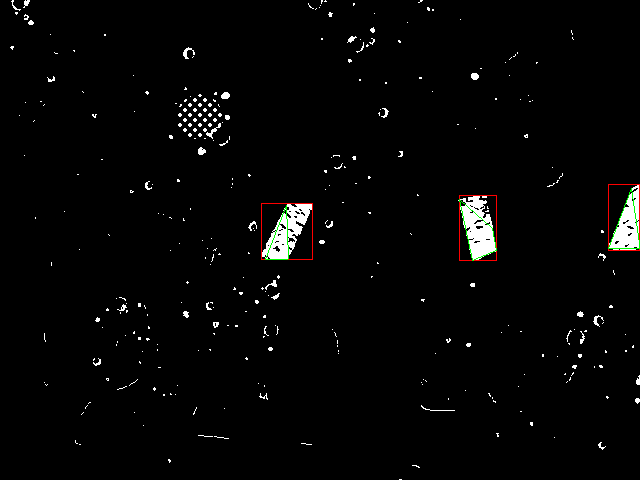
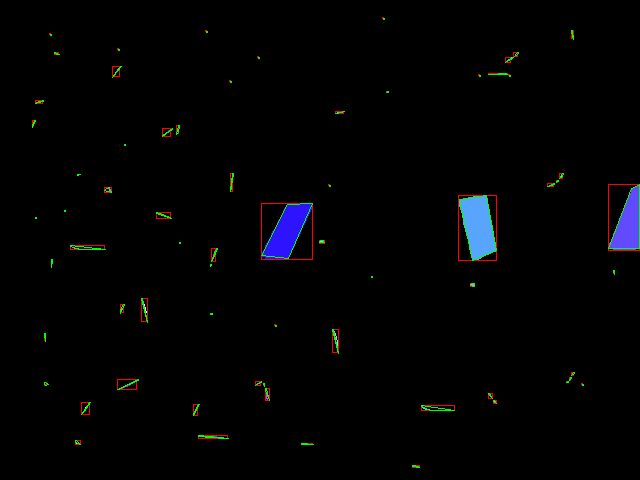
BlobProcessor V2 Script Working!

diff --git a/Scripting/BlobProcessor.ts b/Scripting/BlobProcessor.ts
@@ -19,12 +19,13 @@ interface BlobData {
     valid: boolean
 }
 
-const MIN_AREA = 1000;
+const MIN_AREA = 0;
 const MAX_BLOBS = 1000;
 const IMAGE_WIDTH = 640;
 const IMAGE_HEIGHT = 480;
 
-let frameBuffer: boolean[][] = Array.from(Array(IMAGE_WIDTH), () => Array(IMAGE_HEIGHT).fill(0))
+let frameBuffer: boolean[][] = Array.from(Array(IMAGE_WIDTH), () => Array(IMAGE_HEIGHT).fill(0));
+let testBlobBuffer: number[][] = Array.from(Array(IMAGE_WIDTH), () => Array(IMAGE_HEIGHT).fill(0))
 let blobIDBuffer: number[] = Array(IMAGE_WIDTH * 2).fill(MAX_BLOBS); //stores last 2 lines of blob IDs
 let blobIDBufferHalf: boolean = false; //which section of the blobIDBuffer we are on [639:0] or [1279:640]
 let blobs: BlobData[] = Array(MAX_BLOBS).fill({
@@ -40,7 +41,7 @@ let blobs: BlobData[] = Array(MAX_BLOBS).fill({
 });
 let blobIndex = 0;
 
-fs.createReadStream('images/2019_Noise2.png')
+fs.createReadStream('images/2019_Noise.png')
     .pipe(new png())
     .on('parsed', function () {
         //Process all Pixels
@@ -53,12 +54,13 @@ fs.createReadStream('images/2019_Noise2.png')
 
                 frameBuffer[x][y] = threshold;
 
+                let blobID = MAX_BLOBS;
                 if (threshold) {
-                    processPixel({ x, y });
+                    blobID = processPixel({ x, y });
                 }
-                else {
-                    blobIDBuffer[x + (blobIDBufferHalf?IMAGE_WIDTH:0)] = MAX_BLOBS;
-                }
+                
+                blobIDBuffer[x + (blobIDBufferHalf?IMAGE_WIDTH:0)] = blobID;
+                testBlobBuffer[x][y] = blobID;
             }
 
             //swap blobIDBufferHalf
@@ -68,6 +70,19 @@ fs.createReadStream('images/2019_Noise2.png')
         console.log("blob count: ", blobIndex - 1, maxCount);
 
         //Draw Blobs
+        for (let y = 0; y < IMAGE_HEIGHT; y++) {
+            for (let x = 0; x < IMAGE_WIDTH; x++) {
+                if (testBlobBuffer[x][y] !== MAX_BLOBS) {
+                    const idx = (IMAGE_WIDTH * y + x) << 2;
+                    const blobIndex = getBlobID(testBlobBuffer[x][y]);
+                    // const blobIndex = testBlobBuffer[x][y];
+                    //@ts-ignore
+                    this.data[idx] = Math.sin(blobIndex * 50) * 255;
+                    //@ts-ignore
+                    this.data[idx + 1] = Math.sin(blobIndex * 100) * 255;
+                }
+            }
+        }
         for (let i = 0; i < blobs.length; i++) {
             const area = (blobs[i]?.boundBottomRight.x - blobs[i]?.boundTopLeft.x) * (blobs[i]?.boundBottomRight.y - blobs[i]?.boundTopLeft.y);
             if (blobs[i]?.valid && area >= MIN_AREA) {
@@ -80,7 +95,7 @@ fs.createReadStream('images/2019_Noise2.png')
                     [255, 0, 0, 255]
                 );
 
-                //@ts-ignore
+                // @ts-ignore
                 this.drawLine(
                     blobs[i].cornerTopLeft.x,
                     blobs[i].cornerTopLeft.y,
@@ -131,16 +146,16 @@ function getBlobID(startID: number, count?: number): number {
 }
 
 //Process Pixel & Return BlobID
-function processPixel(pos: Vector): void {
+function processPixel(pos: Vector): number {
     let blobIDBufferIndexes: number[] = [];
     if (pos.x > 0 && pos.y > 0)
-        blobIDBufferIndexes.push(pos.x-1 + (blobIDBufferHalf?IMAGE_WIDTH:0));
-    if (pos.y > 0)
-        blobIDBufferIndexes.push(pos.x+0 + (blobIDBufferHalf?IMAGE_WIDTH:0));
-    if (pos.x < IMAGE_WIDTH-1 && pos.y > 0)
-        blobIDBufferIndexes.push(pos.x+1 + (blobIDBufferHalf?IMAGE_WIDTH:0));
-    if (pos.x > 0)
         blobIDBufferIndexes.push(pos.x-1 + (blobIDBufferHalf?0:IMAGE_WIDTH));
+    if (pos.y > 0)
+        blobIDBufferIndexes.push(pos.x+0 + (blobIDBufferHalf?0:IMAGE_WIDTH));
+    if (pos.x < IMAGE_WIDTH-1 && pos.y > 0)
+        blobIDBufferIndexes.push(pos.x+1 + (blobIDBufferHalf?0:IMAGE_WIDTH));
+    if (pos.x > 0)
+        blobIDBufferIndexes.push(pos.x-1 + (blobIDBufferHalf?IMAGE_WIDTH:0));
 
     let masterBlobID;
     for (let i = 0; i < blobIDBufferIndexes.length; i++) {
@@ -214,14 +229,14 @@ function processPixel(pos: Vector): void {
             blobs[masterBlobID].cornerBottomLeft.y = pos.y;
         }
 
-        blobIDBuffer[pos.x + (blobIDBufferHalf?IMAGE_WIDTH:0)] = masterBlobID;
+        return masterBlobID;
     }
     
     //not touching a blob => make new blob
     else {
         blobs[blobIndex] = {
             boundTopLeft:      {x:pos.x  , y:pos.y  },
-            boundBottomRight:  {x:pos.x+1, y:pos.y+1},
+            boundBottomRight:  {x:pos.x+0, y:pos.y+0},
             cornerTopLeft:     {x:pos.x  , y:pos.y  },
             cornerTopRight:    {x:pos.x+1, y:pos.y  },
             cornerBottomLeft:  {x:pos.x  , y:pos.y+1},
@@ -231,9 +246,9 @@ function processPixel(pos: Vector): void {
             valid: true
         };
 
-        blobIDBuffer[pos.x + (blobIDBufferHalf?IMAGE_WIDTH:0)] = blobIndex;
-
         blobIndex++;
+                
+        return blobIndex - 1;
     }
 }
 
